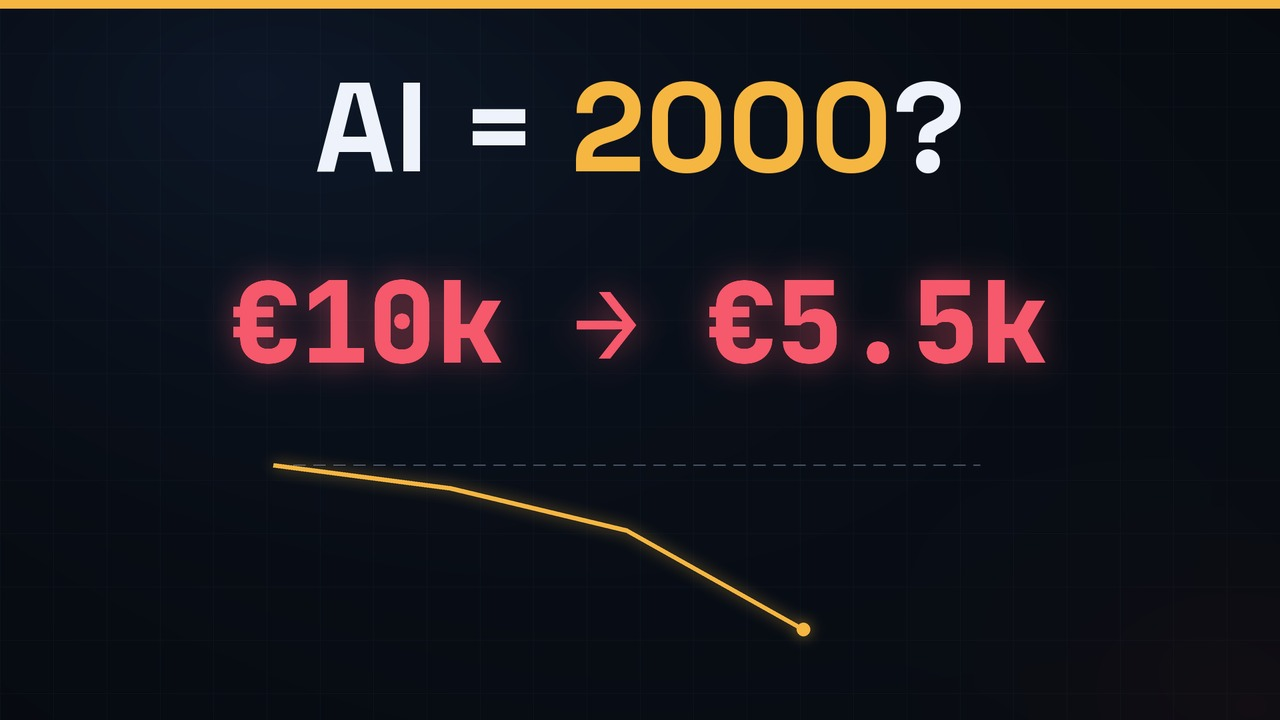
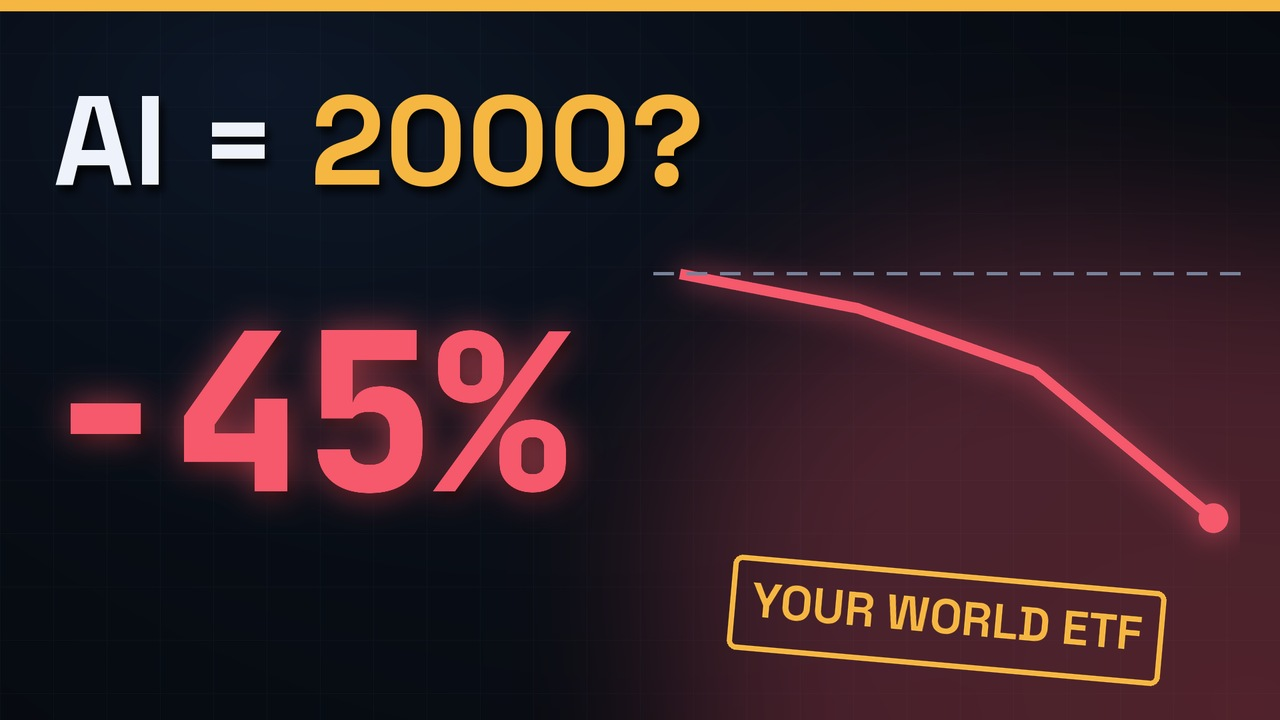
Add 3 A/B thumbnail variants in the channel style
Claude-Session: https://claude.ai/code/session_01RdV1z92rjiGCziAvLqg7sJ

diff --git a/video/thumbnail.py b/video/thumbnail.py
@@ -1,0 +1,136 @@
+"""YouTube thumbnails (1280x720) in the channel style — 3 A/B variants."""
+import math
+import os
+
+from PIL import Image, ImageDraw, ImageFilter
+
+import engine as E
+from script import X, WORLD
+
+HERE = os.path.dirname(os.path.abspath(__file__))
+OUT = os.path.join(HERE, "output")
+W, H = 1920, 1080
+
+
+def base():
+    img = E.background_at(0).copy()
+    # stronger vignette + warm red glow for drama
+    glow = Image.new("RGBA", (W, H), (0, 0, 0, 0))
+    d = ImageDraw.Draw(glow)
+    d.ellipse((900, 250, 2300, 1400), fill=(246, 88, 108, 70))
+    glow = glow.filter(ImageFilter.GaussianBlur(160))
+    img = Image.alpha_composite(img.convert("RGBA"), glow)
+    return img
+
+
+def text(img, s, size, xy, family="grotesk", weight=700, default="white", anchor="l", glow_=False, shadow=True):
+    spr = E.rich_text(s, size, family, weight, default, maxw=1900, align="left" if anchor == "l" else "center")
+    if glow_:
+        pad = 50
+        big = Image.new("RGBA", (spr.width + 2 * pad, spr.height + 2 * pad), (0, 0, 0, 0))
+        big.paste(spr, (pad, pad), spr)
+        spr = E.glow(big, 26, 0.7)
+        xy = (xy[0] - pad, xy[1] - pad)
+    if shadow:
+        sh = Image.new("RGBA", spr.size, (0, 0, 0, 0))
+        sh.putalpha(spr.getchannel("A").point(lambda v: int(v * 0.85)))
+        sh = sh.filter(ImageFilter.GaussianBlur(6))
+        img.alpha_composite(sh, (int(xy[0] + 6 - (spr.width / 2 if anchor == "c" else 0)), int(xy[1] + 10)))
+    x = xy[0] - (spr.width / 2 if anchor == "c" else 0)
+    img.alpha_composite(spr, (int(x), int(xy[1])))
+    return spr.size
+
+
+def crash_line(img, box, upto=2008.0, color="red", width=16):
+    x0, y0, x1, y1 = box
+    S = 2
+    layer = Image.new("RGBA", ((x1 - x0) * S, (y1 - y0) * S), (0, 0, 0, 0))
+    d = ImageDraw.Draw(layer)
+    xs = [x for x in X if x <= upto]
+    ys = WORLD[:len(xs)]
+    lo, hi = 4500, 10500
+    m = 40 * S
+    pts = [(m + (x - X[0]) / (upto - X[0]) * ((x1 - x0) * S - 2 * m), m + (1 - (y - lo) / (hi - lo)) * ((y1 - y0) * S - 2 * m))
+           for x, y in zip(xs, ys)]
+    d.line(pts, fill=E.C[color] + (255,), width=width * S, joint="curve")
+    ex, ey = pts[-1]
+    r = 22 * S
+    d.ellipse((ex - r, ey - r, ex + r, ey + r), fill=E.C[color] + (255,))
+    layer = layer.resize((x1 - x0, y1 - y0), Image.LANCZOS)
+    g = layer.getchannel("A").filter(ImageFilter.GaussianBlur(22)).point(lambda v: int(v * 0.8))
+    gl = Image.new("RGBA", layer.size, E.C[color] + (0,))
+    gl.putalpha(g)
+    img.alpha_composite(gl, (x0, y0))
+    img.alpha_composite(layer, (x0, y0))
+    # dashed €10k reference
+    d2 = ImageDraw.Draw(img)
+    yr = y0 + 40 + (1 - (10000 - lo) / (hi - lo)) * (y1 - y0 - 80)
+    x = x0
+    while x < x1:
+        d2.line((x, yr, min(x + 30, x1), yr), fill=(120, 130, 155, 255), width=5)
+        x += 50
+
+
+def stamp(img, s, xy, size=110, color="red", angle=8):
+    spr = E.build_sprite(dict(kind="stamp", text=s, color=color, angle=angle, size=size))
+    img.alpha_composite(spr, (int(xy[0] - spr.width / 2), int(xy[1] - spr.height / 2)))
+
+
+def bar(img):
+    ImageDraw.Draw(img).rectangle((0, 0, W, 16), fill=E.C["amber"])
+
+
+def variant_a():
+    """Big red -45% + crash line + 'AI = 2000?'"""
+    img = base()
+    crash_line(img, (980, 330, 1860, 900), upto=2002.0)
+    text(img, "AI = {a:2000?}", 190, (80, 90))
+    text(img, "−45%", 330, (60, 400), family="mono", weight=800, default="red", glow_=True)
+    stamp(img, "YOUR WORLD ETF", (1420, 930), size=72, color="amber", angle=-5)
+    bar(img)
+    return img
+
+
+def variant_b():
+    """'13 YEARS' to get your money back."""
+    img = base()
+    crash_line(img, (1000, 380, 1860, 860), upto=2013.0, color="amber", width=14)
+    text(img, "€10,000 →", 120, (80, 110), family="mono", weight=800)
+    text(img, "13", 470, (60, 250), family="mono", weight=800, default="red", glow_=True)
+    text(img, "YEARS", 150, (95, 790), family="grotesk", weight=700)
+    stamp(img, "AI BUBBLE?", (1430, 200), size=96, color="red", angle=6)
+    bar(img)
+    return img
+
+
+def variant_c():
+    """Versus: panic seller vs patient investor."""
+    img = base()
+    text(img, "AI CRASH: {a:WHO WINS?}", 130, (W / 2, 70), anchor="c")
+    for side, (lab, val, col) in enumerate([("SOLD", "€8,813", "red"), ("WAITED", "€46,032", "green")]):
+        cx = W * (0.25 if side == 0 else 0.75)
+        d = ImageDraw.Draw(img)
+        d.rounded_rectangle((cx - 350, 300, cx + 350, 900), radius=36, fill=E.C["panel"] + (240,),
+                            outline=E.C[col] + (255,), width=8)
+        text(img, lab, 110, (cx, 350), family="mono", weight=800, default="muted", anchor="c", shadow=False)
+        text(img, val, 125 if side else 140, (cx, 550), family="mono", weight=800, default=col, anchor="c", glow_=True)
+    d = ImageDraw.Draw(img)
+    d.ellipse((W / 2 - 110, 490, W / 2 + 110, 710), fill=E.C["amber"])
+    text(img, "VS", 110, (W / 2, 528), anchor="c", default="white", shadow=False)
+    stamp(img, "SAME €10,000", (W / 2, 975), size=70, color="amber", angle=-3)
+    bar(img)
+    return img
+
+
+def main():
+    os.makedirs(OUT, exist_ok=True)
+    outs = []
+    for name, fn in (("thumbnail.jpg", variant_a), ("thumbnail_b.jpg", variant_b), ("thumbnail_c.jpg", variant_c)):
+        p = os.path.join(OUT, name)
+        fn().convert("RGB").resize((1280, 720), Image.LANCZOS).save(p, quality=93)
+        outs.append(p)
+    print("\n".join(outs))
+
+
+if __name__ == "__main__":
+    main()

diff --git a/video/output/youtube_metadata.md b/video/output/youtube_metadata.md
@@ -45,3 +45,9 @@ This video is for education only and is not financial advice. Past performance d
 ## Tags
 
 ai bubble, ai bubble 2026, msci world, msci world etf, dot com crash, dot com bubble, stock market crash, european investor, etf europe, vwce, ftse all world, msci acwi, equal weight etf, nvidia, magnificent 7, concentration risk, euro investing, index investing europe, passive investing, 60/40 portfolio europe, ecb ai bubble, euroindexlab
+
+## Thumbnails (A/B test)
+
+- `thumbnail.jpg`: "AI = 2000?" + −45% + crash line
+- `thumbnail_b.jpg`: "€10,000 → 13 YEARS" + "AI BUBBLE?"
+- `thumbnail_c.jpg`: "AI CRASH: WHO WINS?" sold €8,813 vs waited €46,032

diff --git a/README.md b/README.md
@@ -10,6 +10,7 @@
 | `video/sphinx_align.py` | Alineación forzada palabra a palabra (PocketSphinx) para los subtítulos |
 | `video/music.py` | Música de fondo y efectos generados por código (sin derechos de terceros) |
 | `video/build.py` | Línea de tiempo (voz ×1,05, pausas recortadas) → mezcla con efectos → render 1080p30 con cámara, transiciones y barra de capítulos → MP4 |
+| `video/thumbnail.py` | 3 miniaturas para prueba A/B (1280×720) |
 | `video/metadata.py` | Título, descripción con capítulos, etiquetas y miniatura |
 | `video/assets/tts/` | Narración generada (FLAC), para no tener que regenerarla |
 
